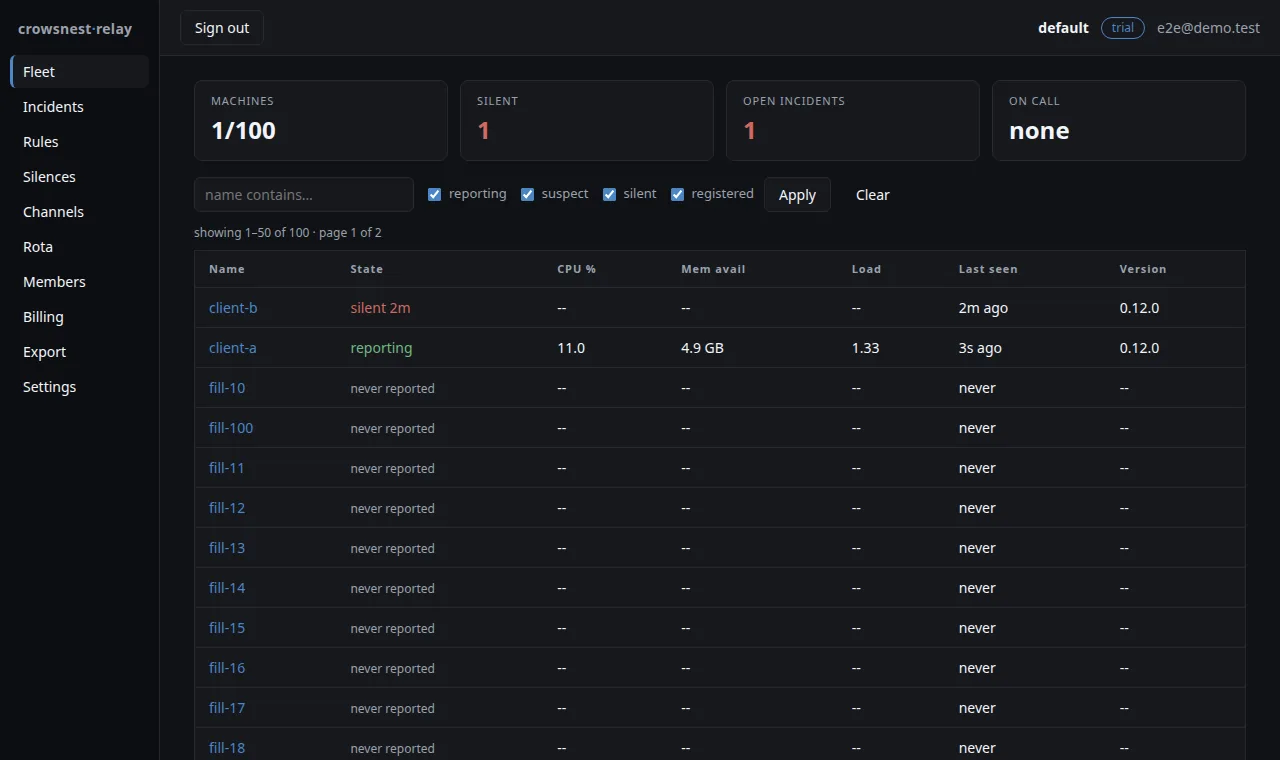
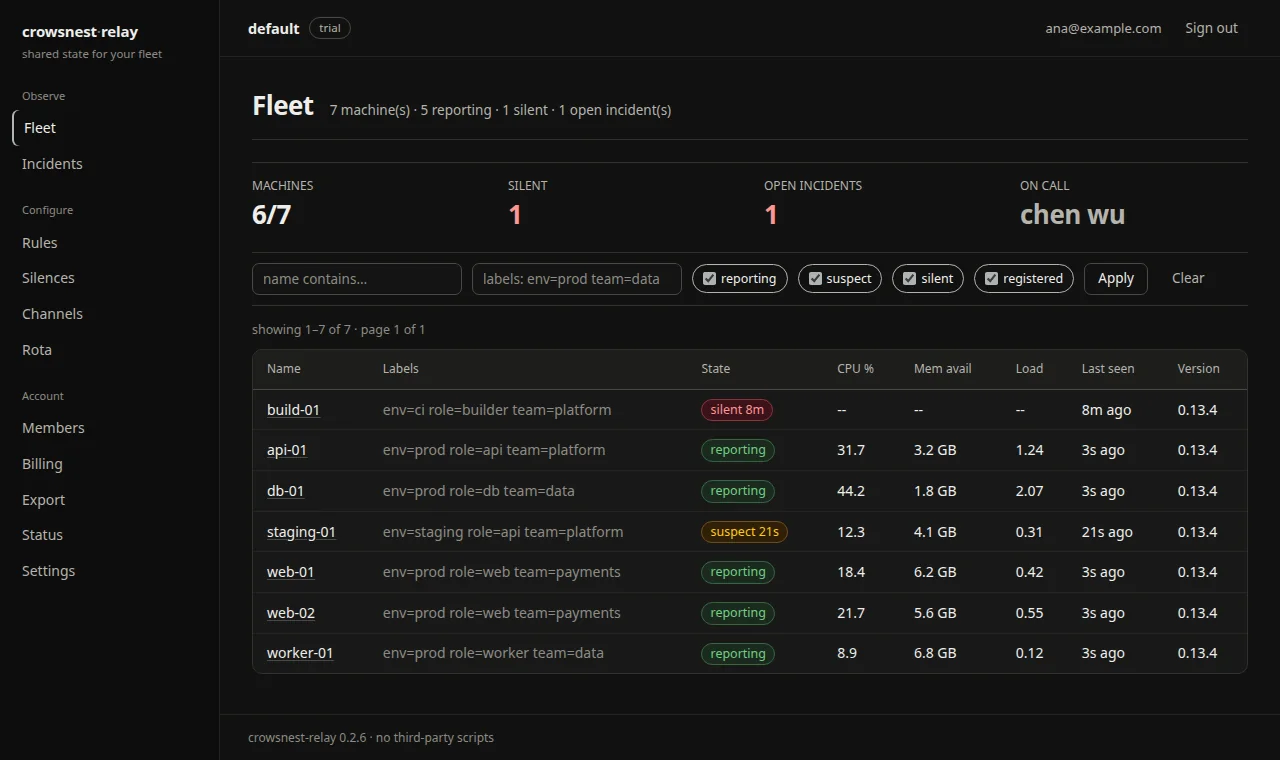
site: re-shoot the relay fleet page on the new console
The old capture showed the blue card-grid design and a 100-machine
filler fleet. The new capture is a seven-machine fleet from the warm
neutral console: env/role/team labels, five reporting rows with CPU,
memory and load, one suspect, and one silent for eight minutes with a
dash in every value column instead of a stale reading. The on-call
owner comes from a real rota.

The image is the same 1280x760 frame, so the gallery layout is
unchanged. Alt text and caption now describe what the capture shows.

diff --git a/site/index.html b/site/index.html
@@ -183,9 +183,9 @@
                 <span class="shot-title">relay console &mdash; Fleet</span>
               </div>
               <a href="shots/relay-fleet.webp" target="_blank" rel="noopener">
-                <img src="shots/relay-fleet.webp" width="1280" height="760" loading="lazy" alt="The relay's Fleet page: one machine silent for two minutes with dashes in every value column, one reporting machine with CPU, memory and load, and the machine count against the plan cap." />
+                <img src="shots/relay-fleet.webp" width="1280" height="760" loading="lazy" alt="The relay's Fleet page: seven machines carrying env, role and team labels. Five report live CPU, memory and load, one is suspect, and one has been silent for eight minutes with a dash in every value column instead of a stale reading." />
               </a>
-              <figcaption class="shot-cap">A live capture from the end-to-end run: one machine stopped reporting, so its row shows a dash rather than a stale reading.</figcaption>
+              <figcaption class="shot-cap">A live capture: a machine that stopped reporting shows a dash in every value column rather than a stale reading, and the on-call owner comes from the rota.</figcaption>
             </figure>
             <div class="limits">
               <div class="tcard">
